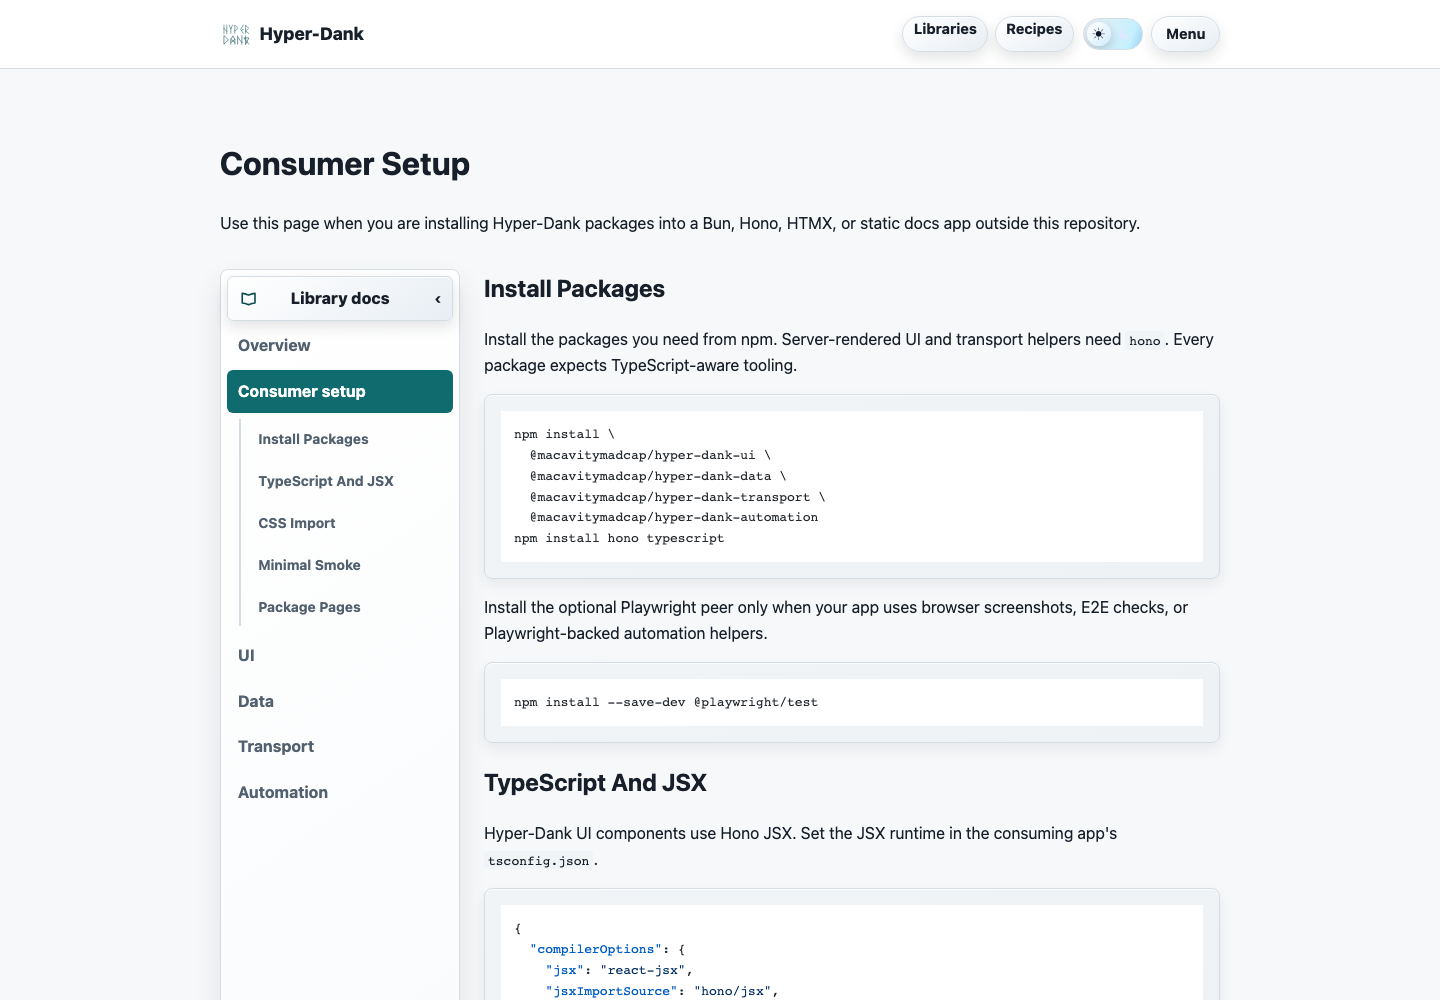
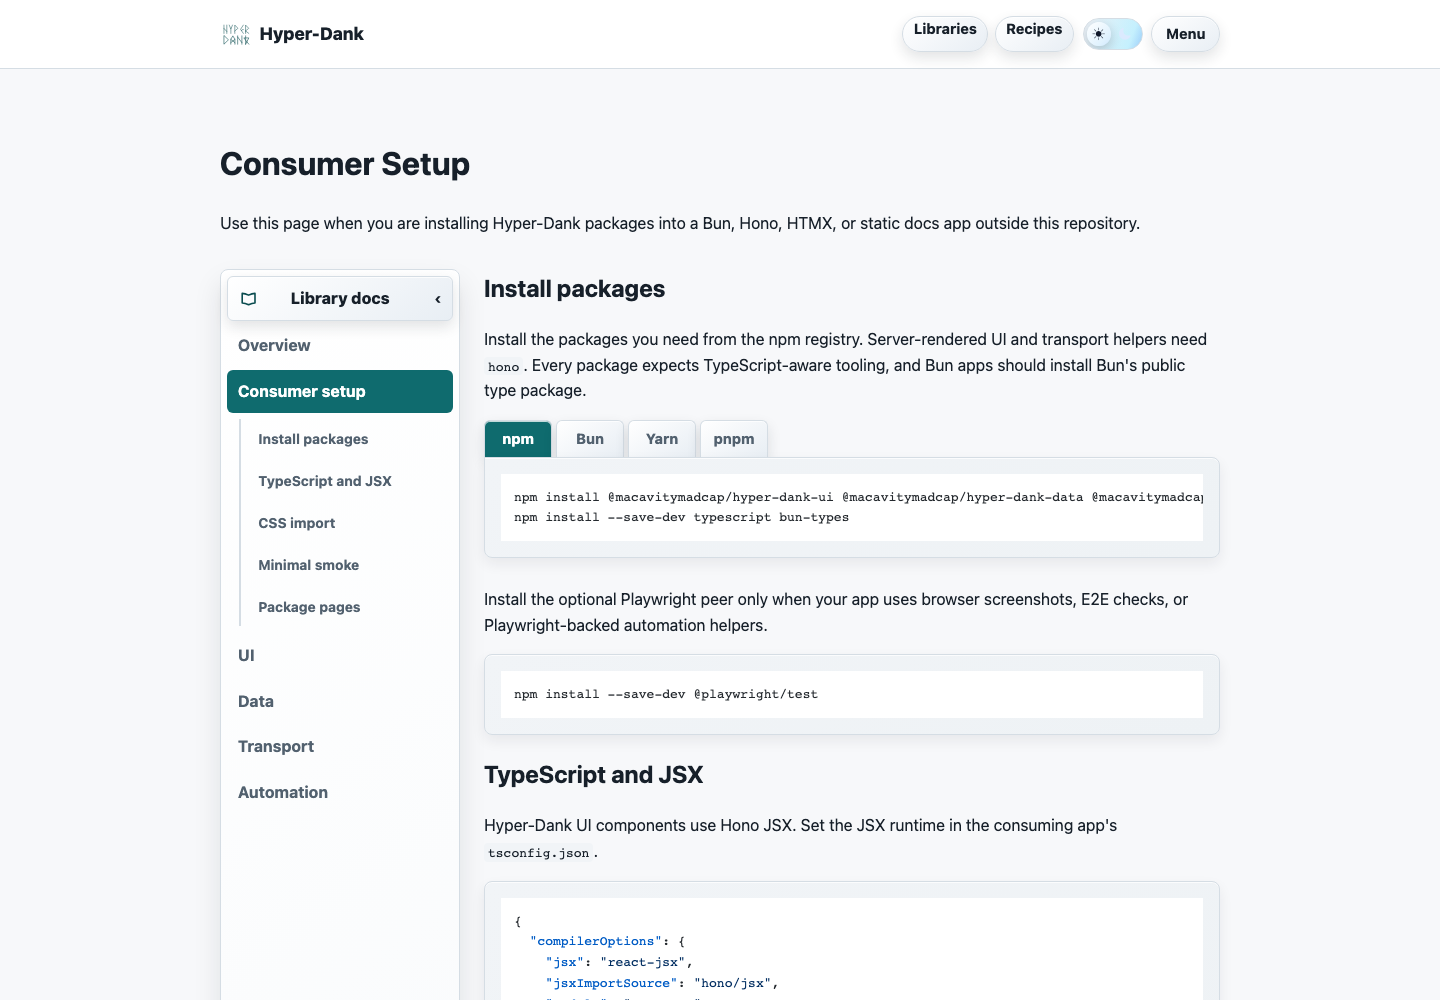
docs: refine consumer setup install guidance

diff --git a/apps/walking-pace/scripts/lib/public-docs.test.ts b/apps/walking-pace/scripts/lib/public-docs.test.ts
@@ -220,6 +220,7 @@ describe("public docs", () => {
   test("documents published package consumer setup", () => {
     const setup = readFileSync(path.join(root, "site/libraries-consumer-setup.md"), "utf8");
     const libraries = readFileSync(path.join(root, "site/libraries.md"), "utf8");
+    const siteCss = readFileSync(path.join(root, "site/assets/site.css"), "utf8");
     const packageReadmes = [
       "libs/components/README.md",
       "libs/database/README.md",
@@ -235,10 +236,30 @@ describe("public docs", () => {
     ];
 
     expect(setup).toContain("permalink: /libraries/consumer-setup/");
-    expect(setup).toContain("npm install \\");
-    expect(setup).toContain("npm install hono typescript");
+    expect(setup).toContain('class="package-manager-tabs"');
+    expect(setup).toContain('id="install-npm"');
+    expect(setup).toContain('id="install-bun"');
+    expect(setup).toContain('id="install-yarn"');
+    expect(setup).toContain('id="install-pnpm"');
+    expect(setup).toContain("npm install @macavitymadcap/hyper-dank-ui");
+    expect(setup).toContain("bun add @macavitymadcap/hyper-dank-ui");
+    expect(setup).toContain("yarn add @macavitymadcap/hyper-dank-ui");
+    expect(setup).toContain("pnpm add @macavitymadcap/hyper-dank-ui");
+    expect(setup).toContain("npm install --save-dev typescript bun-types");
+    expect(setup).toContain("bun add --dev typescript bun-types");
+    expect(setup).toContain("yarn add --dev typescript bun-types");
+    expect(setup).toContain("pnpm add --save-dev typescript bun-types");
     expect(setup).toContain("npm install --save-dev @playwright/test");
     expect(setup).toContain('"jsxImportSource": "hono/jsx"');
+    expect(setup).toContain('"types": ["bun-types"]');
+    expect(setup).toContain("<a href=\"{{ '/libraries/ui/' | relative_url }}\">UI docs</a>");
+    expect(setup).toContain("<a href=\"{{ '/libraries/data/' | relative_url }}\">Data docs</a>");
+    expect(setup).toContain(
+      "<a href=\"{{ '/libraries/transport/' | relative_url }}\">Transport docs</a>",
+    );
+    expect(setup).toContain(
+      "<a href=\"{{ '/libraries/automation/' | relative_url }}\">Automation docs</a>",
+    );
     expect(setup).toContain('import "@macavitymadcap/hyper-dank-ui/styles.css";');
     expect(setup).toContain("import.meta.resolve");
     expect(setup).toContain("Package smoke");
@@ -252,6 +273,9 @@ describe("public docs", () => {
       '<a aria-current="page" href="{{ \'/libraries/consumer-setup/\' | relative_url }}">Consumer setup</a>',
     );
     expect(libraries).toContain("{{ '/libraries/consumer-setup/' | relative_url }}");
+    expect(siteCss).toContain(".package-manager-tabs");
+    expect(siteCss).toContain(".package-manager-tabs input:checked + label");
+    expect(siteCss).toContain("#install-npm:checked ~ .package-manager-tabs__panel--npm");
 
     for (const packageName of packageNames) {
       expect(setup).toContain(packageName);

diff --git a/site/assets/site.css b/site/assets/site.css
@@ -598,6 +598,63 @@ pre code {
   padding: 0;
 }
 
+.package-manager-tabs {
+  align-items: end;
+  display: grid;
+  grid-template-columns: repeat(4, max-content) minmax(0, 1fr);
+  margin: 1rem 0;
+}
+
+.package-manager-tabs input {
+  opacity: 0;
+  pointer-events: none;
+  position: absolute;
+}
+
+.package-manager-tabs label {
+  background-image: var(--control-gradient);
+  border: 1px solid var(--border);
+  border-bottom: 0;
+  border-radius: 6px 6px 0 0;
+  box-shadow: var(--control-depth-shadow);
+  color: var(--text-muted);
+  cursor: pointer;
+  font-size: 0.9rem;
+  font-weight: 750;
+  margin-right: 0.25rem;
+  min-width: 4.25rem;
+  padding: 0.4rem 0.7rem;
+  text-align: center;
+}
+
+.package-manager-tabs input:checked + label {
+  background: var(--active-nav-bg);
+  color: var(--active-nav-text);
+}
+
+.package-manager-tabs input:focus-visible + label {
+  outline: 2px solid var(--accent);
+  outline-offset: 2px;
+}
+
+.package-manager-tabs__panel {
+  display: none;
+  grid-column: 1 / -1;
+  min-width: 0;
+}
+
+.package-manager-tabs__panel pre {
+  border-radius: 0 8px 8px;
+  margin-top: 0;
+}
+
+#install-npm:checked ~ .package-manager-tabs__panel--npm,
+#install-bun:checked ~ .package-manager-tabs__panel--bun,
+#install-yarn:checked ~ .package-manager-tabs__panel--yarn,
+#install-pnpm:checked ~ .package-manager-tabs__panel--pnpm {
+  display: block;
+}
+
 .hljs {
   background: transparent;
   color: inherit;

diff --git a/site/libraries-consumer-setup.md b/site/libraries-consumer-setup.md
@@ -26,17 +26,52 @@ app outside this repository.
 
 ## Install packages
 
-Install the packages you need from npm. Server-rendered UI and transport helpers need `hono`.
-Every package expects TypeScript-aware tooling.
+Install the packages you need from the npm registry. Server-rendered UI and transport helpers need
+`hono`. Every package expects TypeScript-aware tooling, and Bun apps should install Bun's public
+type package.
+
+<div class="package-manager-tabs">
+  <input checked id="install-npm" name="install-package-manager" type="radio">
+  <label for="install-npm">npm</label>
+  <input id="install-bun" name="install-package-manager" type="radio">
+  <label for="install-bun">Bun</label>
+  <input id="install-yarn" name="install-package-manager" type="radio">
+  <label for="install-yarn">Yarn</label>
+  <input id="install-pnpm" name="install-package-manager" type="radio">
+  <label for="install-pnpm">pnpm</label>
+  <div class="package-manager-tabs__panel package-manager-tabs__panel--npm">
 
 ```bash
-npm install \
-  @macavitymadcap/hyper-dank-ui \
-  @macavitymadcap/hyper-dank-data \
-  @macavitymadcap/hyper-dank-transport \
-  @macavitymadcap/hyper-dank-automation
-npm install hono typescript
+npm install @macavitymadcap/hyper-dank-ui @macavitymadcap/hyper-dank-data @macavitymadcap/hyper-dank-transport @macavitymadcap/hyper-dank-automation hono
+npm install --save-dev typescript bun-types
 ```
+
+  </div>
+  <div class="package-manager-tabs__panel package-manager-tabs__panel--bun">
+
+```bash
+bun add @macavitymadcap/hyper-dank-ui @macavitymadcap/hyper-dank-data @macavitymadcap/hyper-dank-transport @macavitymadcap/hyper-dank-automation hono
+bun add --dev typescript bun-types
+```
+
+  </div>
+  <div class="package-manager-tabs__panel package-manager-tabs__panel--yarn">
+
+```bash
+yarn add @macavitymadcap/hyper-dank-ui @macavitymadcap/hyper-dank-data @macavitymadcap/hyper-dank-transport @macavitymadcap/hyper-dank-automation hono
+yarn add --dev typescript bun-types
+```
+
+  </div>
+  <div class="package-manager-tabs__panel package-manager-tabs__panel--pnpm">
+
+```bash
+pnpm add @macavitymadcap/hyper-dank-ui @macavitymadcap/hyper-dank-data @macavitymadcap/hyper-dank-transport @macavitymadcap/hyper-dank-automation hono
+pnpm add --save-dev typescript bun-types
+```
+
+  </div>
+</div>
 
 Install the optional Playwright peer only when your app uses browser screenshots, E2E checks, or
 Playwright-backed automation helpers.
@@ -145,12 +180,39 @@ if (
 
 ## Package pages
 
-| Package | npm | Docs |
-| --- | --- | --- |
-| `@macavitymadcap/hyper-dank-ui` | [npm](https://www.npmjs.com/package/@macavitymadcap/hyper-dank-ui) | [UI docs]({{ '/libraries/ui/' | relative_url }}) |
-| `@macavitymadcap/hyper-dank-data` | [npm](https://www.npmjs.com/package/@macavitymadcap/hyper-dank-data) | [Data docs]({{ '/libraries/data/' | relative_url }}) |
-| `@macavitymadcap/hyper-dank-transport` | [npm](https://www.npmjs.com/package/@macavitymadcap/hyper-dank-transport) | [Transport docs]({{ '/libraries/transport/' | relative_url }}) |
-| `@macavitymadcap/hyper-dank-automation` | [npm](https://www.npmjs.com/package/@macavitymadcap/hyper-dank-automation) | [Automation docs]({{ '/libraries/automation/' | relative_url }}) |
+<div class="table-scroll" tabindex="0">
+<table>
+  <thead>
+    <tr>
+      <th>Package</th>
+      <th>npm</th>
+      <th>Docs</th>
+    </tr>
+  </thead>
+  <tbody>
+    <tr>
+      <td><code>@macavitymadcap/hyper-dank-ui</code></td>
+      <td><a href="https://www.npmjs.com/package/@macavitymadcap/hyper-dank-ui">npm</a></td>
+      <td><a href="{{ '/libraries/ui/' | relative_url }}">UI docs</a></td>
+    </tr>
+    <tr>
+      <td><code>@macavitymadcap/hyper-dank-data</code></td>
+      <td><a href="https://www.npmjs.com/package/@macavitymadcap/hyper-dank-data">npm</a></td>
+      <td><a href="{{ '/libraries/data/' | relative_url }}">Data docs</a></td>
+    </tr>
+    <tr>
+      <td><code>@macavitymadcap/hyper-dank-transport</code></td>
+      <td><a href="https://www.npmjs.com/package/@macavitymadcap/hyper-dank-transport">npm</a></td>
+      <td><a href="{{ '/libraries/transport/' | relative_url }}">Transport docs</a></td>
+    </tr>
+    <tr>
+      <td><code>@macavitymadcap/hyper-dank-automation</code></td>
+      <td><a href="https://www.npmjs.com/package/@macavitymadcap/hyper-dank-automation">npm</a></td>
+      <td><a href="{{ '/libraries/automation/' | relative_url }}">Automation docs</a></td>
+    </tr>
+  </tbody>
+</table>
+</div>
 
 </div>
 </div>
